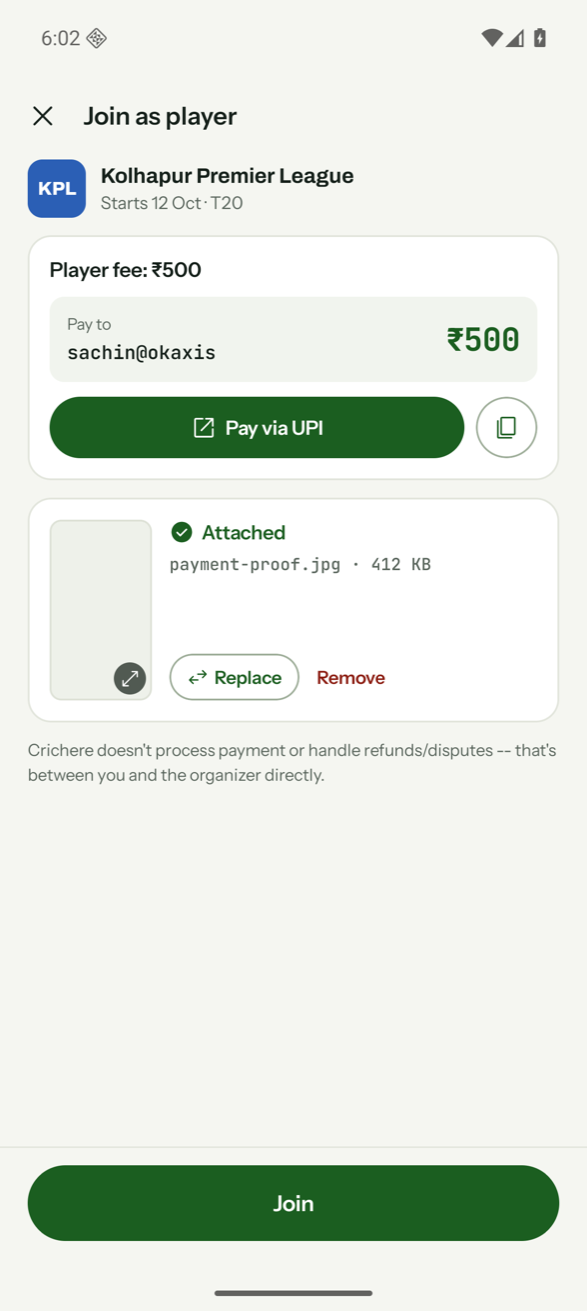
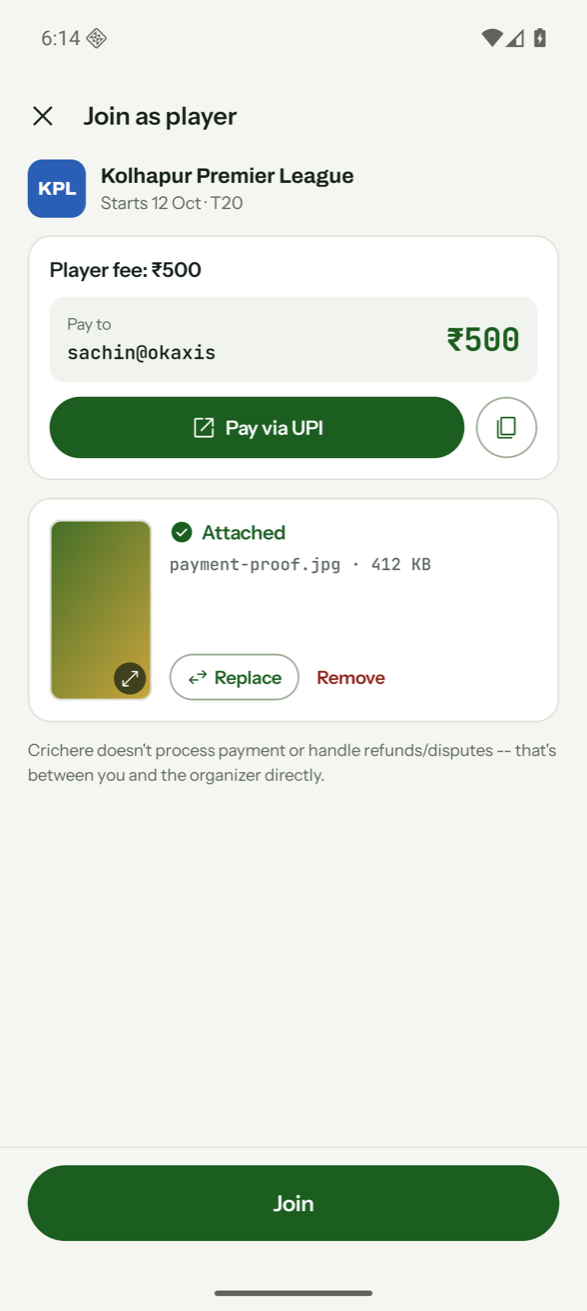
test(android): proof thumbnails reached by picking the sample photo
Join and Claim draw the payment-proof thumbnail only from the picked
bitmap, so F5, F7, G3 and G5 now pick one: a test ActivityResultRegistry
answers the photo picker with the sample image, the check sheet is ticked
and accepted, then the board's state follows.

Claude-Session: https://claude.ai/code/session_014bTqXC7JmRoCCrzJgBwYLH

Changed region(s): [[0.0613, 0.3966, 0.276, 0.5492], [0.092, 0.0, 0.1227, 0.0305]]

diff --git a/mobile/androidApp/src/androidTest/kotlin/com/crichere/app/parity/PickedProofBoards.kt b/mobile/androidApp/src/androidTest/kotlin/com/crichere/app/parity/PickedProofBoards.kt
@@ -1,0 +1,70 @@
+package com.crichere.app.parity
+
+import android.app.Activity
+import android.content.Intent
+import android.net.Uri
+import androidx.activity.compose.LocalActivityResultRegistryOwner
+import androidx.activity.result.ActivityResultRegistry
+import androidx.activity.result.ActivityResultRegistryOwner
+import androidx.activity.result.contract.ActivityResultContract
+import androidx.compose.runtime.Composable
+import androidx.compose.runtime.CompositionLocalProvider
+import androidx.compose.runtime.collectAsState
+import androidx.compose.runtime.getValue
+import androidx.compose.ui.test.isToggleable
+import androidx.compose.ui.test.junit4.ComposeTestRule
+import androidx.compose.ui.test.onNodeWithText
+import androidx.compose.ui.test.performClick
+import androidx.core.app.ActivityOptionsCompat
+import com.crichere.app.league.ClaimFranchiseState
+import com.crichere.app.league.JoinLeagueState
+import kotlinx.coroutines.flow.MutableStateFlow
+
+// Join and Claim draw the payment-proof thumbnail only from the photo the user just picked, so these boards
+// pick one: the photo picker answers with the sample image, the check sheet is ticked and accepted, and the
+// screen's state then moves on to the board's (uploading, failed, attached, submitting).
+
+/** Answers every launch (the photo picker) with the sample image, as if the user had picked it. */
+private val pickerAnswersSample = object : ActivityResultRegistryOwner {
+    override val activityResultRegistry = object : ActivityResultRegistry() {
+        override fun <I, O> onLaunch(requestCode: Int, contract: ActivityResultContract<I, O>, input: I, options: ActivityOptionsCompat?) {
+            dispatchResult(requestCode, Activity.RESULT_OK, Intent().setData(Uri.parse(SamplePhoto.url)))
+        }
+    }
+}
+
+private fun <S> pickedBoard(start: S, end: S, chooseLabel: String, screen: (S) -> @Composable () -> Unit): Pair<@Composable () -> Unit, ComposeTestRule.() -> Unit> {
+    val holder = MutableStateFlow(start)
+    val content: @Composable () -> Unit = {
+        val state by holder.collectAsState()
+        CompositionLocalProvider(LocalActivityResultRegistryOwner provides pickerAnswersSample) { screen(state)() }
+    }
+    val action: ComposeTestRule.() -> Unit = {
+        onNodeWithText(chooseLabel).performClick()
+        waitForIdle()
+        Thread.sleep(500)  // the picked photo decodes off the main thread
+        waitForIdle()
+        onAllNodes(isToggleable()).fetchSemanticsNodes().indices.forEach { onAllNodes(isToggleable())[it].performClick() }
+        onNodeWithText("Use this").performClick()
+        waitForIdle()
+        holder.value = end
+    }
+    return content to action
+}
+
+private fun joinPicked(end: JoinLeagueState) = pickedBoard(joinState(), end, "Choose screenshot") { join(it) }
+private fun claimPicked(end: ClaimFranchiseState, logo: Boolean = true) =
+    pickedBoard(claimState(name = "Kolhapur Kings", logo = logo), end, "Attach payment screenshot") { claim(it) }
+
+internal val pickedProofBoards: Map<String, Pair<@Composable () -> Unit, ComposeTestRule.() -> Unit>> by lazy {
+    mapOf(
+        "F5" to joinPicked(joinState(uploading = 0.42f)),
+        "F5-attached" to joinPicked(joinState(attached = true)),
+        "F5-failed" to joinPicked(joinState(failed = true)),
+        "F7" to joinPicked(joinState(attached = true, errorTitle = "Couldn't join", error = "Registration just filled up. Ask the organizer if a spot opens.")),
+        "G3" to claimPicked(claimState(name = "Kolhapur Kings", logo = true, attached = true)),
+        "G3-uploading" to claimPicked(claimState(name = "Kolhapur Kings", logo = true, uploadingLogo = true, uploading = 0.42f)),
+        "G3-failed" to claimPicked(claimState(name = "Kolhapur Kings", failed = true), logo = false),
+        "G5" to claimPicked(claimState(name = "Kolhapur Kings", logo = true, attached = true, submitting = true)),
+    )
+}

diff --git a/mobile/androidApp/src/androidTest/kotlin/com/crichere/app/parity/ActionBoards.kt b/mobile/androidApp/src/androidTest/kotlin/com/crichere/app/parity/ActionBoards.kt
@@ -108,7 +108,7 @@ private fun filledCreation() = creationState(dirty = true, name = "Kolhapur Prem
 
 /** Board → its screen, for [ParityBoards.all]. */
 fun actionBoardContents(): Map<String, @Composable () -> Unit> =
-    actionBoards.mapValues { it.value.content } + mapOf(
+    actionBoards.mapValues { it.value.content } + pickedProofBoards.mapValues { it.value.first } + mapOf(
         "I1-filled" to creation(filledCreation()),
         "I3" to creation(creationState(dirty = true, name = "Kolhapur Premier League", located = true, ground = true, startsOn = "2026-10-12",
             bannerProgress = 0.42f, saving = true, images = true)),
@@ -116,9 +116,10 @@ fun actionBoardContents(): Map<String, @Composable () -> Unit> =
         "S2" to { AppStartContent(isOffline = true, onRetry = {}) },
     )
 
-fun hasBoardAction(board: String): Boolean = board in actionBoards
+fun hasBoardAction(board: String): Boolean = board in actionBoards || board in pickedProofBoards
 
 /** What to do on [board]'s screen before the capture, if anything. */
 fun ComposeTestRule.runBoardAction(board: String) {
     actionBoards[board]?.action?.invoke(this)
+    pickedProofBoards[board]?.second?.invoke(this)
 }

diff --git a/docs/IOS-REDESIGN-PLAN.md b/docs/IOS-REDESIGN-PLAN.md
@@ -301,8 +301,9 @@ ViewModel are shown by setting its state (`ForcedBoards.kt`); dialogs and sheets
 are drawn over that screen (`DialogBoards.kt`); the rest are reached by tapping, scrolling or pinching the
 real screen (`ActionBoards.kt`). Photo, logo, banner and proof fixtures load the same sample image on both sides.
 
-Every iOS board has an Android capture. The one gap is the payment-proof thumbnail (F5-attached, G3,
-G5): Android only draws it from the bitmap the user just picked, so it's blank in those captures.
+Every iOS board has an Android capture. Payment-proof thumbnails (F5, F7, G3, G5), which Android only
+draws from a photo the user just picked, are reached by picking one: the test answers the photo picker with
+the sample image and accepts the check sheet (`PickedProofBoards.kt`).
 
 **Allowed differences in the captures:** the native pickers inside the date / time dialogs (I6, J10,
 J11: iOS calendar and wheel vs Material's), the keyboard (A2, B1, AD6), Android's clipboard chip after
